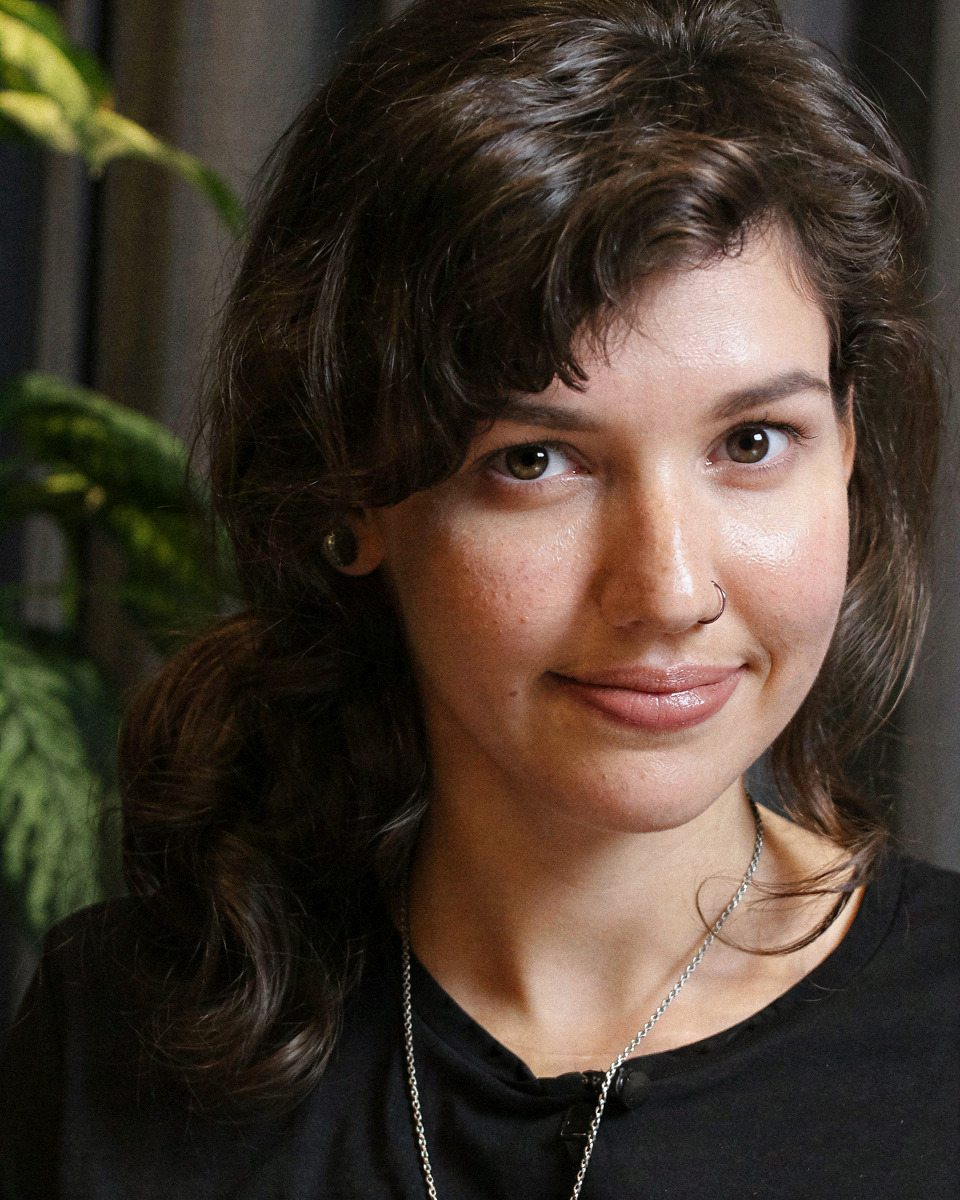
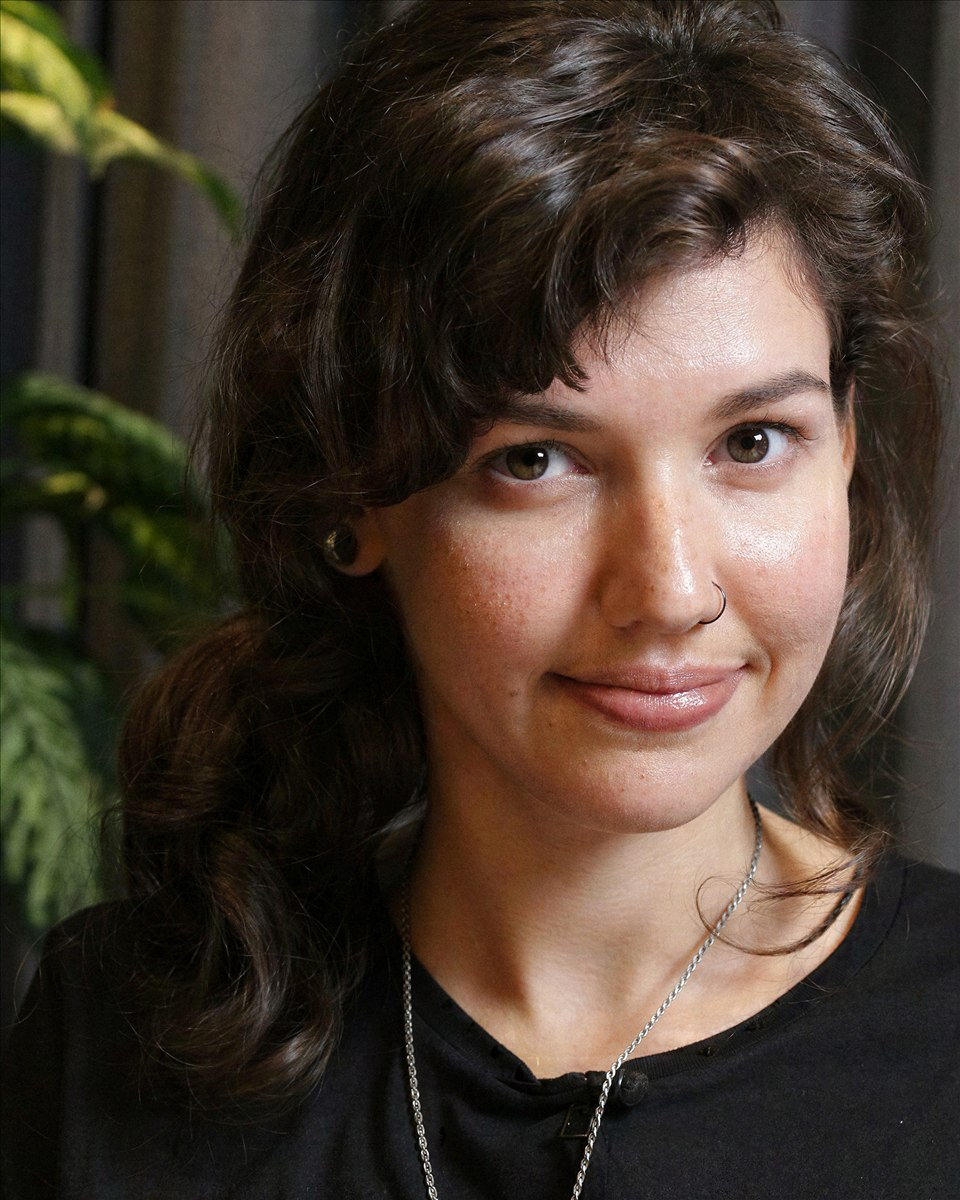
Instrutores: 10 fotos refeitas a partir do original (Magnific ultra-sublime 4x, retrato)

diff --git a/formacao-product-manager.html b/formacao-product-manager.html
@@ -210,19 +210,19 @@
       <figure class="prof"><div class="ph"><img src="assets/people/marcell-almeida-hd.jpg" alt="Foto de Marcell Almeida" loading="lazy" width="480" height="600"><span class="co co-logo"><img src="assets/logo/pm3-logo-preto.svg" alt="PM3" style="height:15px"></span></div><figcaption><b>Marcell Almeida</b><span>Founder, PM3 e Product Camp</span></figcaption></figure>
       <figure class="prof"><div class="ph"><img src="assets/people/raphael-farinazzo.jpg?v=2" alt="Foto de Raphael Farinazzo" loading="lazy" width="480" height="600"><span class="co co-logo"><img src="assets/logo/pm3-logo-preto.svg" alt="PM3" style="height:15px"></span></div><figcaption><b>Raphael Farinazzo</b><span>CEO</span></figcaption></figure>
       <figure class="prof"><div class="ph"><img src="assets/people/joaquim-torres.jpg?v=2" alt="Foto de Joaquim Torres" loading="lazy" width="480" height="600"><span class="co co-logo"><img src="assets/logos/gympass.svg" alt="Gympass" style="height:18px"></span></div><figcaption><b>Joaquim Torres</b><span>Former CPTO @ Locaweb, Gympass, Conta Azul e Lopes</span></figcaption></figure>
-      <figure class="prof"><div class="ph"><img src="assets/people/camila-lopes.jpg?v=2" alt="Foto de Camila Lopes" loading="lazy" width="480" height="600"><span class="co co-logo"><img src="assets/logos/nubank.svg" alt="Nubank" style="height:15px"></span></div><figcaption><b>Camila Lopes</b><span>Senior Product Lead</span></figcaption></figure>
-      <figure class="prof"><div class="ph"><img src="assets/people/pedro-axelrud.jpg?v=2" alt="Foto de Pedro Axelrud" loading="lazy" width="480" height="600"><span class="co co-logo"><img src="assets/logos/nubank.svg" alt="Nubank" style="height:15px"></span></div><figcaption><b>Pedro Axelrud</b><span>Product Director</span></figcaption></figure>
-      <figure class="prof"><div class="ph"><img src="assets/people/maria-luisa-cantadori.jpg?v=2" alt="Foto de Maria Luisa Cantadori" loading="lazy" width="480" height="600"><span class="co co-logo"><img src="assets/logos/stripe.svg" alt="Stripe" style="height:20px"></span></div><figcaption><b>Maria Luisa Cantadori</b><span>Senior Product Manager</span></figcaption></figure>
-      <figure class="prof"><div class="ph"><img src="assets/people/loren-monteiro.jpg?v=2" alt="Foto de Loren Monteiro" loading="lazy" width="480" height="600"><span class="co">Adevinta</span></div><figcaption><b>Loren Monteiro</b><span>CPO Adevinta Benelux</span></figcaption></figure>
-      <figure class="prof"><div class="ph"><img src="assets/people/bianca-santa-cruz.jpg?v=2" alt="Foto de Bianca Santa Cruz" loading="lazy" width="480" height="600"><span class="co">Grupo Boticário</span></div><figcaption><b>Bianca Santa Cruz</b><span>Head of Product</span></figcaption></figure>
+      <figure class="prof"><div class="ph"><img src="assets/people/camila-lopes.jpg?v=3" alt="Foto de Camila Lopes" loading="lazy" width="480" height="600"><span class="co co-logo"><img src="assets/logos/nubank.svg" alt="Nubank" style="height:15px"></span></div><figcaption><b>Camila Lopes</b><span>Senior Product Lead</span></figcaption></figure>
+      <figure class="prof"><div class="ph"><img src="assets/people/pedro-axelrud.jpg?v=3" alt="Foto de Pedro Axelrud" loading="lazy" width="480" height="600"><span class="co co-logo"><img src="assets/logos/nubank.svg" alt="Nubank" style="height:15px"></span></div><figcaption><b>Pedro Axelrud</b><span>Product Director</span></figcaption></figure>
+      <figure class="prof"><div class="ph"><img src="assets/people/maria-luisa-cantadori.jpg?v=3" alt="Foto de Maria Luisa Cantadori" loading="lazy" width="480" height="600"><span class="co co-logo"><img src="assets/logos/stripe.svg" alt="Stripe" style="height:20px"></span></div><figcaption><b>Maria Luisa Cantadori</b><span>Senior Product Manager</span></figcaption></figure>
+      <figure class="prof"><div class="ph"><img src="assets/people/loren-monteiro.jpg?v=3" alt="Foto de Loren Monteiro" loading="lazy" width="480" height="600"><span class="co">Adevinta</span></div><figcaption><b>Loren Monteiro</b><span>CPO Adevinta Benelux</span></figcaption></figure>
+      <figure class="prof"><div class="ph"><img src="assets/people/bianca-santa-cruz.jpg?v=3" alt="Foto de Bianca Santa Cruz" loading="lazy" width="480" height="600"><span class="co">Grupo Boticário</span></div><figcaption><b>Bianca Santa Cruz</b><span>Head of Product</span></figcaption></figure>
       <figure class="prof"><div class="ph"><img src="assets/people/rodrigo-iannuzzi.jpg?v=2" alt="Foto de Rodrigo Iannuzzi" loading="lazy" width="480" height="600"><span class="co co-logo"><img src="assets/logos/picpay.svg" alt="PicPay" style="height:16px"></span></div><figcaption><b>Rodrigo Iannuzzi</b><span>Gerente Executivo, Novos Produtos PJ</span></figcaption></figure>
-      <figure class="prof"><div class="ph"><img src="assets/people/marcela-schlaepfer.jpg?v=2" alt="Foto de Marcela Schlaepfer" loading="lazy" width="480" height="600"><span class="co">VTEX</span></div><figcaption><b>Marcela Schlaepfer</b><span>Director of Tech Planning &amp; Operations</span></figcaption></figure>
+      <figure class="prof"><div class="ph"><img src="assets/people/marcela-schlaepfer.jpg?v=3" alt="Foto de Marcela Schlaepfer" loading="lazy" width="480" height="600"><span class="co">VTEX</span></div><figcaption><b>Marcela Schlaepfer</b><span>Director of Tech Planning &amp; Operations</span></figcaption></figure>
       <figure class="prof"><div class="ph"><img src="assets/people/raphael-albino.jpg?v=2" alt="Foto de Raphael Albino" loading="lazy" width="480" height="600"><span class="co co-logo"><img src="assets/logos/nubank.svg" alt="Nubank" style="height:15px"></span></div><figcaption><b>Raphael Albino</b><span>Interim General Manager</span></figcaption></figure>
-      <figure class="prof"><div class="ph"><img src="assets/people/natalia-arsand.jpg?v=2" alt="Foto de Natalia Arsand" loading="lazy" width="480" height="600"><span class="co co-logo"><img src="assets/logos/booking.svg" alt="Booking.com" style="height:14px"></span></div><figcaption><b>Natalia Arsand</b><span>Senior UX, Design Systems</span></figcaption></figure>
+      <figure class="prof"><div class="ph"><img src="assets/people/natalia-arsand.jpg?v=3" alt="Foto de Natalia Arsand" loading="lazy" width="480" height="600"><span class="co co-logo"><img src="assets/logos/booking.svg" alt="Booking.com" style="height:14px"></span></div><figcaption><b>Natalia Arsand</b><span>Senior UX, Design Systems</span></figcaption></figure>
       <figure class="prof"><div class="ph"><img src="assets/people/bernardo-srulzon.jpg?v=2" alt="Foto de Bernardo Srulzon" loading="lazy" width="480" height="600"><span class="co co-logo"><img src="assets/logos/nubank.svg" alt="Nubank" style="height:15px"></span></div><figcaption><b>Bernardo Srulzon</b><span>Senior Product Lead</span></figcaption></figure>
       <figure class="prof"><div class="ph"><img src="assets/people/thiago-belluf.jpg?v=2" alt="Foto de Thiago Belluf" loading="lazy" width="480" height="600"><span class="co">Will Bank</span></div><figcaption><b>Thiago Belluf</b><span>Group Product Manager</span></figcaption></figure>
       <figure class="prof"><div class="ph"><img src="assets/people/andre-nery.jpg?v=2" alt="Foto de André Nery" loading="lazy" width="480" height="600"><span class="co">Alpha</span></div><figcaption><b>André Nery</b><span>Founder &amp; CEO</span></figcaption></figure>
-      <figure class="prof"><div class="ph"><img src="assets/people/victor-almaraz.jpg?v=2" alt="Foto de Victor Almaraz" loading="lazy" width="480" height="600"><span class="co">Konfidency</span></div><figcaption><b>Victor Almaraz</b><span>Founder &amp; CEO</span></figcaption></figure>
+      <figure class="prof"><div class="ph"><img src="assets/people/victor-almaraz.jpg?v=3" alt="Foto de Victor Almaraz" loading="lazy" width="480" height="600"><span class="co">Konfidency</span></div><figcaption><b>Victor Almaraz</b><span>Founder &amp; CEO</span></figcaption></figure>
       <figure class="prof"><div class="ph"><img src="assets/people/rawley-martos.jpg?v=2" alt="Foto de Rawley Martos" loading="lazy" width="480" height="600"><span class="co co-logo"><img src="assets/logos/nubank.svg" alt="Nubank" style="height:15px"></span></div><figcaption><b>Rawley Martos</b><span>Product Manager</span></figcaption></figure>
       <figure class="prof"><div class="ph"><img src="assets/people/giovanni-piton.jpg?v=2" alt="Foto de Giovanni Piton" loading="lazy" width="480" height="600"><span class="co co-logo"><img src="assets/logos/by-aliens.png" alt="By Aliens" style="height:28px"></span></div><figcaption><b>Giovanni Piton</b><span>Game Director &amp; Market Intelligence Lead</span></figcaption></figure>
       <figure class="prof"><div class="ph"><img src="assets/people/priscilla-lugao.jpg?v=2" alt="Foto de Priscilla Lugão" loading="lazy" width="480" height="600"><span class="co co-logo"><img src="assets/logo/pm3-logo-preto.svg" alt="PM3" style="height:15px"></span></div><figcaption><b>Priscilla Lugão</b><span>Gerente de Novos Negócios e Estratégia</span></figcaption></figure>

diff --git a/membership.html b/membership.html
@@ -226,15 +226,15 @@
       <figure class="prof"><div class="ph"><img src="assets/people/giuliana-xavier-hd.jpg" alt="Foto de Giuliana Xavier" loading="lazy" width="480" height="600"><span class="co co-logo"><img src="assets/logos/ifood.svg" alt="iFood" style="height:17px"></span></div><figcaption><b>Giuliana Xavier</b><span>Sr. Design Manager</span></figcaption></figure>
       <figure class="prof"><div class="ph"><img src="assets/people/aiman-mustafa.jpg?v=2" alt="Foto de Aiman Mustafa" loading="lazy" width="480" height="600"><span class="co co-logo"><img src="assets/logos/itau.svg" alt="Itaú" style="height:20px"></span></div><figcaption><b>Aiman Mustafa</b><span>AI Product Manager Specialist</span></figcaption></figure>
       <figure class="prof"><div class="ph"><img src="assets/people/eliza-gurgel-hd.jpg" alt="Foto de Eliza Gurgel" loading="lazy" width="480" height="600"><span class="co co-logo"><img src="assets/logos/neon.svg" alt="Neon" style="height:13px"></span></div><figcaption><b>Eliza Gurgel</b><span>Sr. Group Product Manager</span></figcaption></figure>
-      <figure class="prof"><div class="ph"><img src="assets/people/leticia-ribeiro.jpg?v=2" alt="Foto de Letícia Ribeiro" loading="lazy" width="480" height="600"><span class="co co-logo"><img src="assets/logos/elo.svg" alt="Elo" style="height:15px"></span></div><figcaption><b>Letícia Ribeiro</b><span>Sr. Product Manager</span></figcaption></figure>
+      <figure class="prof"><div class="ph"><img src="assets/people/leticia-ribeiro.jpg?v=3" alt="Foto de Letícia Ribeiro" loading="lazy" width="480" height="600"><span class="co co-logo"><img src="assets/logos/elo.svg" alt="Elo" style="height:15px"></span></div><figcaption><b>Letícia Ribeiro</b><span>Sr. Product Manager</span></figcaption></figure>
       <figure class="prof"><div class="ph"><img src="assets/people/gabriel-werlich.jpg?v=2" alt="Foto de Gabriel Werlich" loading="lazy" width="480" height="600"><span class="co">Conta Mais</span></div><figcaption><b>Gabriel Werlich</b><span>Product Director</span></figcaption></figure>
       <figure class="prof"><div class="ph"><img src="assets/people/joaquim-torres.jpg?v=2" alt="Foto de Joaquim Torres" loading="lazy" width="480" height="600"><span class="co co-logo"><img src="assets/logos/gympass.svg" alt="Gympass" style="height:18px"></span></div><figcaption><b>Joaquim Torres</b><span>Former CPTO @ Locaweb, Gympass, Conta Azul e Lopes</span></figcaption></figure>
       <figure class="prof"><div class="ph"><img src="assets/people/efrem-maranhao.jpg?v=2" alt="Foto de Éfrem Maranhão" loading="lazy" width="480" height="600"><span class="co co-logo"><img src="assets/logos/pipefy.svg" alt="Pipefy" style="height:20px"></span></div><figcaption><b>Éfrem Maranhão</b><span>Product Builder</span></figcaption></figure>
-      <figure class="prof"><div class="ph"><img src="assets/people/camila-lopes.jpg?v=2" alt="Foto de Camila Lopes" loading="lazy" width="480" height="600"><span class="co co-logo"><img src="assets/logos/nubank.svg" alt="Nubank" style="height:15px"></span></div><figcaption><b>Camila Lopes</b><span>Senior Product Lead</span></figcaption></figure>
+      <figure class="prof"><div class="ph"><img src="assets/people/camila-lopes.jpg?v=3" alt="Foto de Camila Lopes" loading="lazy" width="480" height="600"><span class="co co-logo"><img src="assets/logos/nubank.svg" alt="Nubank" style="height:15px"></span></div><figcaption><b>Camila Lopes</b><span>Senior Product Lead</span></figcaption></figure>
       <figure class="prof"><div class="ph"><img src="assets/people/raphael-albino.jpg?v=2" alt="Foto de Raphael Albino" loading="lazy" width="480" height="600"><span class="co co-logo"><img src="assets/logos/nubank.svg" alt="Nubank" style="height:15px"></span></div><figcaption><b>Raphael Albino</b><span>Interim General Manager</span></figcaption></figure>
-      <figure class="prof"><div class="ph"><img src="assets/people/maria-luisa-cantadori.jpg?v=2" alt="Foto de Maria Luisa Cantadori" loading="lazy" width="480" height="600"><span class="co co-logo"><img src="assets/logos/stripe.svg" alt="Stripe" style="height:20px"></span></div><figcaption><b>Maria Luisa Cantadori</b><span>Senior Product Manager</span></figcaption></figure>
+      <figure class="prof"><div class="ph"><img src="assets/people/maria-luisa-cantadori.jpg?v=3" alt="Foto de Maria Luisa Cantadori" loading="lazy" width="480" height="600"><span class="co co-logo"><img src="assets/logos/stripe.svg" alt="Stripe" style="height:20px"></span></div><figcaption><b>Maria Luisa Cantadori</b><span>Senior Product Manager</span></figcaption></figure>
       <figure class="prof"><div class="ph"><img src="assets/people/rodrigo-iannuzzi.jpg?v=2" alt="Foto de Rodrigo Iannuzzi" loading="lazy" width="480" height="600"><span class="co co-logo"><img src="assets/logos/picpay.svg" alt="PicPay" style="height:16px"></span></div><figcaption><b>Rodrigo Iannuzzi</b><span>Gerente Executivo, Novos Produtos PJ</span></figcaption></figure>
-      <figure class="prof"><div class="ph"><img src="assets/people/natalia-arsand.jpg?v=2" alt="Foto de Natalia Arsand" loading="lazy" width="480" height="600"><span class="co co-logo"><img src="assets/logos/booking.svg" alt="Booking.com" style="height:14px"></span></div><figcaption><b>Natalia Arsand</b><span>Senior UX, Design Systems</span></figcaption></figure>
+      <figure class="prof"><div class="ph"><img src="assets/people/natalia-arsand.jpg?v=3" alt="Foto de Natalia Arsand" loading="lazy" width="480" height="600"><span class="co co-logo"><img src="assets/logos/booking.svg" alt="Booking.com" style="height:14px"></span></div><figcaption><b>Natalia Arsand</b><span>Senior UX, Design Systems</span></figcaption></figure>
       <figure class="prof"><div class="ph"><img src="assets/people/adrianno-esnarriaga.jpg?v=2" alt="Foto de Adrianno Esnarriaga" loading="lazy" width="480" height="600"><span class="co co-logo"><img src="assets/logos/pipefy.svg" alt="Pipefy" style="height:20px"></span></div><figcaption><b>Adrianno Esnarriaga</b><span>Staff Product Manager</span></figcaption></figure>
       <figure class="prof"><div class="ph"><img src="assets/people/will-sertorio.jpg?v=2" alt="Foto de Will Sertório" loading="lazy" width="480" height="600"><span class="co co-logo"><img src="assets/logos/revelo.svg" alt="Revelo" style="height:16px"></span></div><figcaption><b>Will Sertório</b><span>Head of Product &amp; Design</span></figcaption></figure>
       <figure class="prof"><div class="ph"><img src="assets/people/andre-nery.jpg?v=2" alt="Foto de André Nery" loading="lazy" width="480" height="600"><span class="co">Alpha</span></div><figcaption><b>André Nery</b><span>Founder &amp; CEO</span></figcaption></figure>

diff --git a/sprint-fundamentos-gestao-produtos.html b/sprint-fundamentos-gestao-produtos.html
@@ -171,7 +171,7 @@
       <figure class="prof"><div class="ph"><img src="assets/people/marcell-almeida-hd.jpg" alt="Foto de Marcell Almeida" loading="lazy" width="480" height="600"><span class="co co-logo"><img src="assets/logo/pm3-logo-preto.svg" alt="PM3" style="height:15px"></span></div><figcaption><b>Marcell Almeida</b><span>Founder, PM3 e Product Camp</span></figcaption></figure>
       <figure class="prof"><div class="ph"><img src="assets/people/priscilla-lugao.jpg?v=2" alt="Foto de Priscilla Lugão" loading="lazy" width="480" height="600"><span class="co co-logo"><img src="assets/logo/pm3-logo-preto.svg" alt="PM3" style="height:15px"></span></div><figcaption><b>Priscilla Lugão</b><span>Gerente de Novos Negócios e Estratégia</span></figcaption></figure>
       <figure class="prof"><div class="ph"><img src="assets/people/taynara-rechia.jpg" alt="Foto de Taynara Rechia" loading="lazy" width="480" height="600"><span class="co">Thoughtworks</span></div><figcaption><b>Taynara Rechia</b><span>Lead Product Manager</span></figcaption></figure>
-      <figure class="prof"><div class="ph"><img src="assets/people/rafael-antunes.jpg" alt="Foto de Rafael Antunes" loading="lazy" width="480" height="600"><span class="co">Zé Delivery</span></div><figcaption><b>Rafael Antunes</b><span>Product &amp; Design Director</span></figcaption></figure>
+      <figure class="prof"><div class="ph"><img src="assets/people/rafael-antunes.jpg?v=3" alt="Foto de Rafael Antunes" loading="lazy" width="480" height="600"><span class="co">Zé Delivery</span></div><figcaption><b>Rafael Antunes</b><span>Product &amp; Design Director</span></figcaption></figure>
     </div>
     <div class="prof-nav"><div class="prof-btns"><button type="button" data-pf="ant" aria-label="Instrutores anteriores"><svg viewBox="0 0 16 16" fill="none" stroke="currentColor" stroke-width="1.8"><path d="M14 8H3M7 4 3 8l4 4"/></svg></button><button type="button" data-pf="prox" aria-label="Próximos instrutores"><svg viewBox="0 0 16 16" fill="none" stroke="currentColor" stroke-width="1.8"><path d="M2 8h11M9 4l4 4-4 4"/></svg></button></div></div>
   </div>
